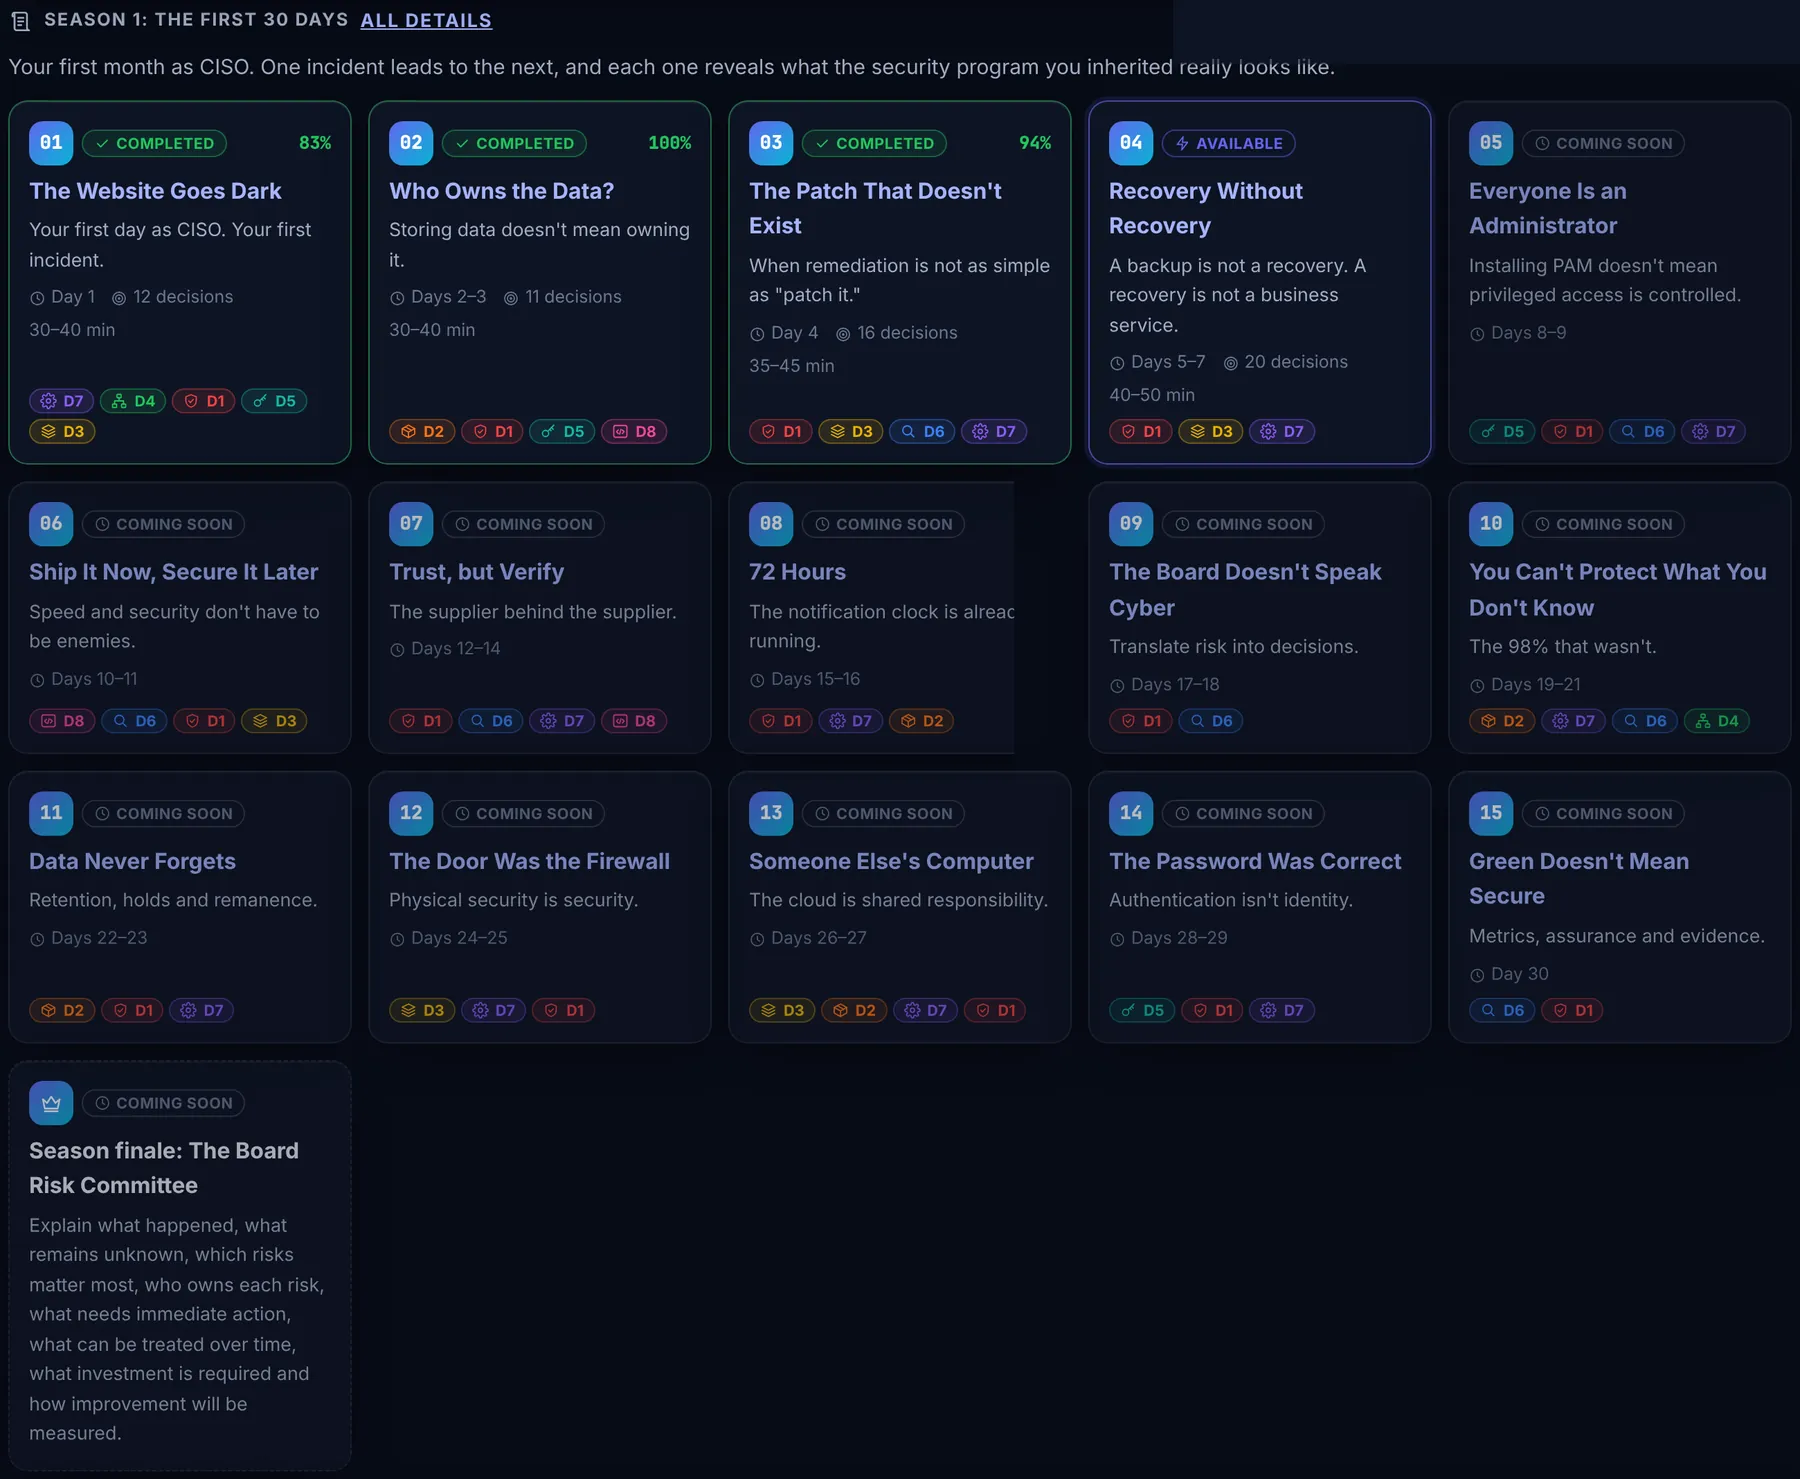
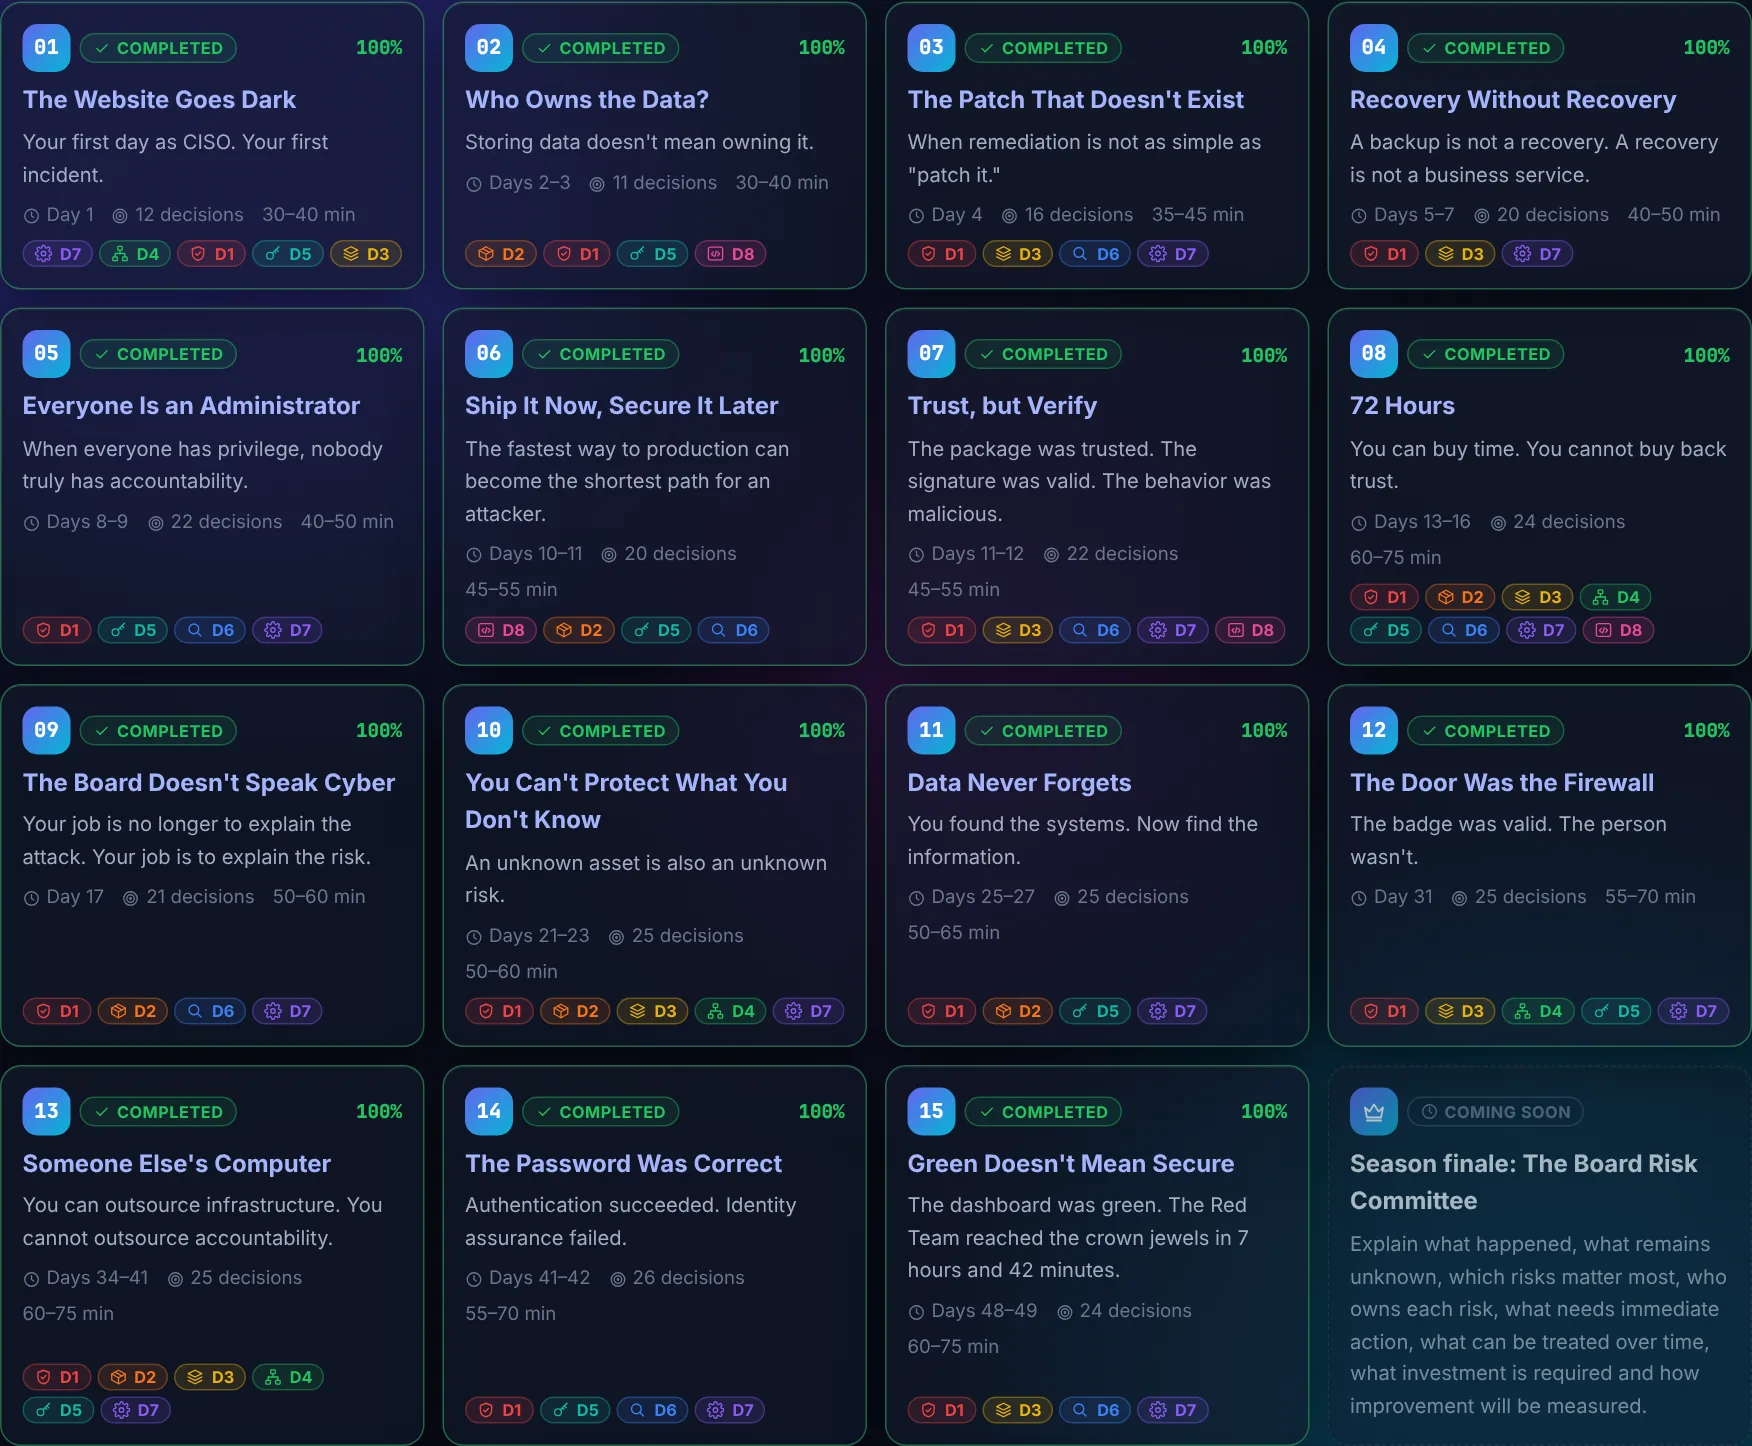
README: Story Campaign screenshots for Episodes 10-15
Claude-Session: https://claude.ai/code/session_011jTbzdfjX83cjky2aVgAY2

diff --git a/README.md b/README.md
@@ -447,7 +447,7 @@ The campaign's overview page is your dashboard as the new CISO.
 
 - **The season** as episode cards, each showing its status, story day, number of decisions, play time and domains. Below them are the campaign's signature lessons, for example *"Having backups doesn't mean you can recover"* and *"Control documented ≠ control effective"*.
 
-<img src="docs/images/game/campaign-season-cards.webp" alt="Season 1 episode cards: completed, available, locked and coming soon" width="100%">
+<img src="docs/images/game/campaign-season-cards.webp" alt="Season 1 episode cards: all fifteen episodes completed, with scores, story days and domains" width="100%">
 
 - **On the Dashboard:** the [Story Campaign Mode sub-tab](#dashboard) shows your season progress, the next episode and a numbered tile for each episode.
 - **Rank gates:** from Episode 5 on, episodes also need a rank, so the story and the quick-play modes grow together. The season list and each episode's page show the rank it needs and how much XP you still need:
@@ -484,7 +484,63 @@ Your first month as CISO. Open the **Season 1** tab for every episode's objectiv
 
 <img src="docs/images/game/campaign-episode.webp" alt="Episode 4 details: synopsis, objectives, CISSP concepts and domains, hidden risks and your record" width="100%">
 
-<img src="docs/images/game/campaign-episode-soon.webp" alt="A coming-soon episode: Trust, but Verify, with its objectives, concepts and domains" width="100%">
+<img src="docs/images/game/ep15-details.webp" alt="Episode 15 details: Green Doesn't Mean Secure, the assurance boss battle" width="100%">
+
+#### Episodes 10–15 in pictures
+
+The second half of the season moves from incidents to the systems behind them: assets, data, facilities, cloud, identity and assurance. Earlier choices keep coming back.
+
+**Episode 10 · You Can't Protect What You Don't Know.** 573 devices nobody documented, and one controller with a published default password and internet access.
+
+<img src="docs/images/game/ep10-controller.webp" alt="Episode 10: the industrial controller's default credential, broad reachability and unknown owner" width="100%">
+
+The segmentation you built around unsupported middleware in Episode 3 becomes the template for the warehouse:
+
+<img src="docs/images/game/ep10-impact.webp" alt="Episode 10: a previous decision impact from Episode 3's segmentation" width="100%">
+
+The boss battle ends by building an asset program from ten cards:
+
+<img src="docs/images/game/ep10-asset-program.webp" alt="Episode 10 boss battle: choosing eight components of the asset program" width="100%">
+
+**Episode 11 · Data Never Forgets.** Classification follows the data, and a closed contract isn't closed data.
+
+<img src="docs/images/game/ep11-supplier.webp" alt="Episode 11: a former supplier still holds 312,482 customer records, with a hidden risk discovered" width="100%">
+
+<img src="docs/images/game/ep11-residency.webp" alt="Episode 11: matching statements to data residency or data sovereignty" width="100%">
+
+**Episode 12 · The Door Was the Firewall.** A valid badge on an expired contractor. If you segmented Warehouse 7, the rogue device on the core switch hits walls:
+
+<img src="docs/images/game/ep12-impact.webp" alt="Episode 12: the unknown device is blocked from four networks because of earlier segmentation" width="100%">
+
+<img src="docs/images/game/ep12-control.webp" alt="Episode 12: every part of the badge system worked, and the security objective still failed" width="100%">
+
+The boss battle: rebuild the attack chain, then choose the six controls that would have broken it.
+
+<img src="docs/images/game/ep12-attack-chain.webp" alt="Episode 12 boss battle: the reconstructed attack chain in order" width="100%">
+
+**Episode 13 · Someone Else's Computer.** Who is responsible for what, before the 48-hour discount expires?
+
+<img src="docs/images/game/ep13-responsibility.webp" alt="Episode 13: matching cloud responsibilities to the provider, Aegis or shared" width="100%">
+
+<img src="docs/images/game/ep13-contract.webp" alt="Episode 13: contract gaps against Aegis requirements with the deadline running" width="100%">
+
+**Episode 14 · The Password Was Correct.** Correct passwords, wrong people. Is password + PIN really MFA?
+
+<img src="docs/images/game/ep14-factors.webp" alt="Episode 14: matching authenticators to something you know, have or are" width="100%">
+
+<img src="docs/images/game/ep14-response.webp" alt="Episode 14 boss battle: choosing six response actions to save 2.7 million accounts" width="100%">
+
+**Episode 15 · Green Doesn't Mean Secure.** 98% patched, GREEN, and a Red Team at the crown jewels in 7 hours 42 minutes. Which finding matters more: the critical one, or the medium one on the attack path?
+
+<img src="docs/images/game/ep15-severity.webp" alt="Episode 15: a CVSS 9.8 finding on an isolated server vs a 6.5 finding on the Red Team's attack path" width="100%">
+
+<img src="docs/images/game/ep15-fix-first.webp" alt="Episode 15 boss battle: eight findings, resources to fix four" width="100%">
+
+The season's ending depends on ten safeguards you built across Episodes 9–14:
+
+<img src="docs/images/game/ep15-outcome.webp" alt="Episode 15 outcome: Aegis Global's assurance posture before and after" width="100%">
+
+<img src="docs/images/game/ep15-ending.webp" alt="Episode 15 ending: Green That Means Something, with 10 of 10 earlier safeguards in place" width="100%">
 
 #### Playing an episode
 
